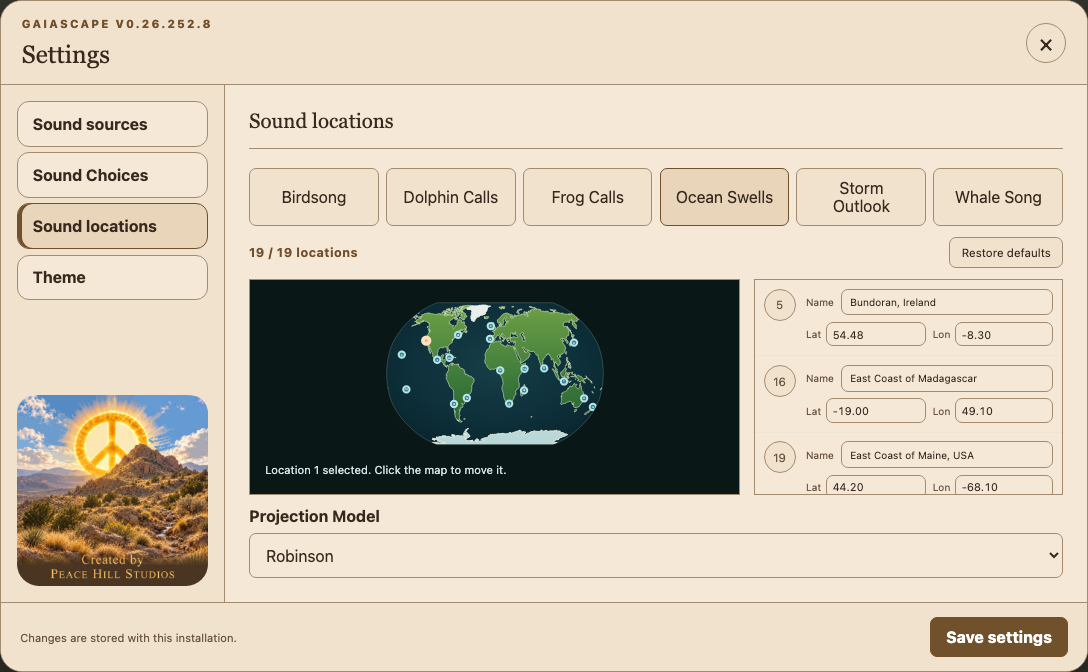
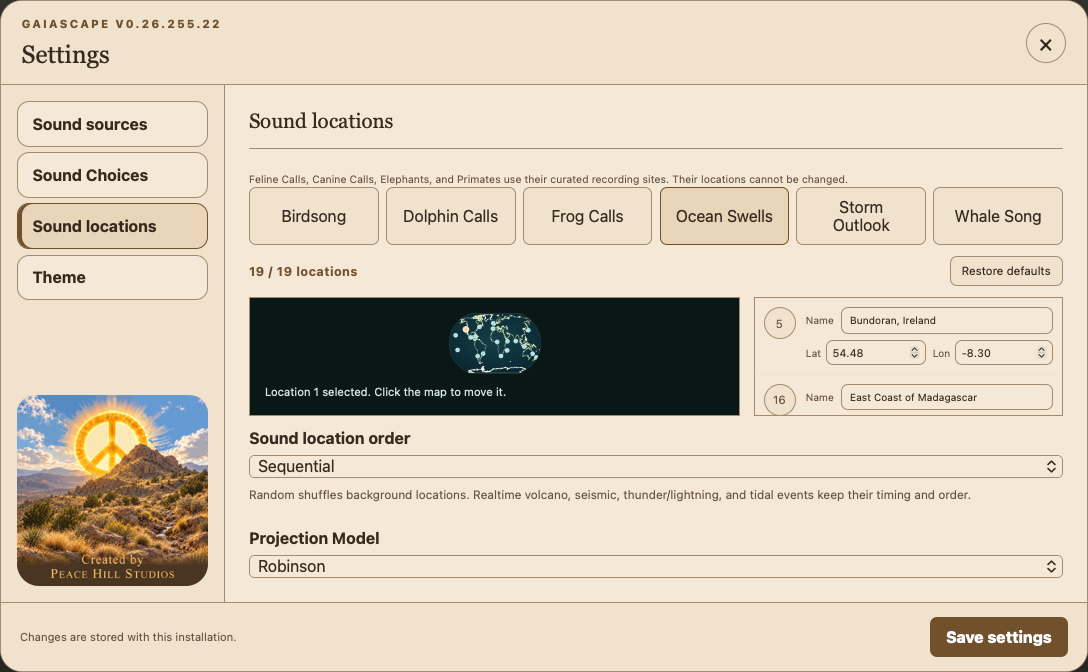
Refresh user guide screenshots and document the Gaiascapes Game

diff --git a/src/gaiascapes_host/static/app.css b/src/gaiascapes_host/static/app.css
@@ -531,7 +531,7 @@ main.has-animal > [data-app-view] { grid-column: 2; grid-row: 2; min-width: 0; }
   .animal-wikipedia[data-hemisphere="east"] { grid-column: 2; }
 }
 @media (max-width: 600px) {
-  main.has-animal, main.has-animal[data-animal-side="east"] { display: flex; height: auto; }
+  main.has-animal, main.has-animal[data-animal-side="east"] { display: flex; flex-direction: column; height: auto; }
   .animal-wikipedia { width: min(180px, 46%); align-self: flex-start; margin-top: 18px; }
   .animal-wikipedia[data-hemisphere="east"] { align-self: flex-end; }
   #animalImage { max-height: 140px; }

diff --git a/src/gaiascapes/__init__.py b/src/gaiascapes/__init__.py
@@ -4,7 +4,7 @@ The package exports normalized events and score-building primitives that can
 be reused without the host service, capture providers, or audio renderer.
 """
 
-__version__ = "v0.26.255.21"
+__version__ = "v0.26.255.22"
 
 from .events import GaiaEvent
 from .score import ScoreCue, build_score

diff --git a/USER_GUIDE.md b/USER_GUIDE.md
@@ -1,8 +1,8 @@
 # Gaiascapes user guide
 
-This guide explains the controls in Gaiascapes **v0.26.252.9**. The screenshots show v0.26.252.8; the interface is unchanged by the iPhone audio-session fix in v0.26.252.9. Installation and system setup are covered separately in the [README](README.md).
+This guide explains the controls in Gaiascapes **v0.26.255.22**. Installation and system setup are covered separately in the [README](README.md).
 
-The screenshots below were captured from this release on September 9, 2026, in an isolated demonstration session. Desktop screenshots use a 1,440-pixel-wide browser; mobile screenshots use a 390-pixel-wide browser simulation, not a physical iPhone. Settings screenshots focus on the dialog. Some lists scroll within the dialog, so only their visible rows are shown. Example earthquakes are illustrative, not live observations. Credential fields are blank, and enabled switches in a screenshot demonstrate the controls rather than confirm access to a provider.
+The screenshots below were captured from this release on September 12, 2026, in an isolated demonstration session. Desktop screenshots use a 1,440-pixel-wide browser (1,920 pixels for the bird map views); mobile screenshots use a 390-pixel-wide browser simulation, not a physical iPhone. Settings screenshots focus on the dialog. Some lists scroll within the dialog, so only their visible rows are shown. Example earthquakes and the selected bird recording location are illustrative, not live observations. The bird views show a paused, image-only selection using Next. Credential fields are blank, and enabled switches in a screenshot demonstrate the controls rather than confirm access to a provider.
 
 ## Contents
 
@@ -15,6 +15,7 @@ The screenshots below were captured from this release on September 9, 2026, in a
 - [Sound locations](#sound-locations)
 - [Theme](#theme)
 - [Saving settings](#saving-settings)
+- [Gaiascapes Game](#gaiascapes-game)
 - [Status and troubleshooting](#status-and-troubleshooting)
 - [Location privacy](#location-privacy)
 
@@ -90,7 +91,7 @@ A dash or **Not yet** means there is no matching event to display yet. A previou
 
 Select **Map** at the top of the window. Select **Dashboard** to return to the playback controls.
 
-![Map view showing the world map, legend, and three separate status tiles](docs/images/user-guide/03-map.png)
+![Map view with a greater roadrunner image, recording-location pointer, Play/Pause/Next controls, and status tiles](docs/images/user-guide/03-map.png)
 
 The legend distinguishes background locations, event locations, and **My location**. Moving the pointer over the map displays coordinates. The system-location marker, when available, shows the host’s approximate location derived from its public IP address. Background locations come from **Sound locations**; the host location can seed location 1 for Xeno-canto Birdsong and Storm Outlook at startup (see [Location privacy](#location-privacy)). The chosen Dashboard/Map view is remembered.
 
@@ -104,7 +105,7 @@ On narrow screens, the gear and Dashboard/Map selector appear in a centered row 
 
 In Settings, the section buttons move above the content. The listening button is in the Sound Choices heading. Units, Announce Recorded Sounds, Background, and the event tiles stack below it. Scroll inside the settings content to reach the lower controls. The **×** remains in the dialog header and **Save settings** in its footer.
 
-![Mobile Sound Choices with Listen on this device above Units](docs/images/user-guide/17-mobile-listening.png)
+![Mobile Sound Choices with the listening button in its heading and Units below](docs/images/user-guide/17-mobile-listening.png)
 
 To add Gaiascapes to an iPhone Home Screen:
 
@@ -141,6 +142,8 @@ Zoo and other recording context appears in the status information. Broader
 animal labels are used where species identification is unresolved. See the
 [recording credits and curation notes](src/gaiascapes_host/recordings/MAMMAL_CREDITS.md).
 **Announce Recording** is the last background source tile.
+
+![Mammal source tiles followed by Announce Recording and its synthesizer selector](docs/images/user-guide/18-mammal-announcement-sources.png)
 
 ### Background sources
 
@@ -199,7 +202,7 @@ Blank credential fields preserve their saved values. The **Saved — enter only 
 
 Open **Settings → Sound Choices**. The listening button is on the right of the heading. The first row contains **Units**, **Announce Recorded Sounds**, and **Background**. Below it are three independent event tiles: **Event 1**, **Event 2**, and **Event 3**. The location-privacy checkbox is beneath the sound tiles. These controls stack on narrow screens.
 
-![Sound Choices showing Listen on this device, Units, Whale Song, three event voices, volume sliders, the Thunder sample-rate control, and location privacy](docs/images/user-guide/06-sound-choices.png)
+![Sound Choices showing listening controls, Units, announcement dialect and voice variant, Birdsong, and three event voices](docs/images/user-guide/06-sound-choices.png)
 
 ### Selecting a sound
 
@@ -222,7 +225,7 @@ and choose its **Synthesizer**. Automatic prefers Say on supported Macs; Say als
 falls back to eSpeak NG when the chosen native voice is unavailable. Select
 eSpeak NG to always use that engine. In **Sound Choices → Announce Recorded Sounds**,
 choose a **Dialect** and **Voice variant** (Default, Male, or Female), set the volume
-at the bottom, and save settings. Each newly played bird, frog, whale, or dolphin
+at the bottom, and save settings. Each newly played animal
 recording announces its species and named location before the animal audio starts.
 The previous animal sound stops before speech, so speech and animal audio do not
 overlap. Disabled announcements retain the usual recording transitions. If speech
@@ -235,6 +238,12 @@ No speech service or network API is required. SuperCollider is needed only for S
 stopping playback, or moving to another recording cancels its current announcement.
 The tile reports a missing engine, missing voice, or synthesis failure while
 recorded sound playback remains available.
+
+On macOS, Say starts a short-lived SuperCollider language (`sclang`) worker for
+each uncached announcement. A second SuperCollider Dock icon may appear briefly
+while it generates speech; it is not loading the animal recording. Choosing
+**eSpeak NG** in **Sound sources → Announce Recording → Synthesizer** avoids that
+extra process. Repeated announcements may use the in-memory speech cache.
 
 ### Background choices
 
@@ -302,7 +311,7 @@ Commons uses **68 recordings across 19 curated locations**, with multiple record
 
 ### Whale Song and Dolphin Calls
 
-![Whale Song’s recording-site selection (earlier catalog shown)](docs/images/user-guide/09-whale-locations.png)
+![Whale Song’s current recording-site selection](docs/images/user-guide/09-whale-locations.png)
 
 These tabs list verified archive sites, not movable search centers. Use **Include in playback** to include or exclude a site from the rotation. Keep at least one site selected. The count shows how many sites are included. The numbered button or map marker identifies the site; the checkbox controls whether it plays. Names and coordinates are read-only.
 
@@ -346,6 +355,92 @@ Use the **×** in the dialog header to close Settings; there is no Close button 
 
 Mode and Dashboard/Map view changes are applied and saved immediately through their own controls. Theme is saved immediately in this browser. Listen/Mute applies only to the current page session. History-window and performance-length values control the current replay request and are not saved by the Settings dialog.
 
+## Gaiascapes Game
+
+Turn an animal background into an identification quiz: show the picture first,
+offer the recording as a second clue, then reveal the answer. One person hosts
+the game and controls when clues and answers appear.
+
+### Set up the quiz
+
+Complete setup before showing the screen to the players.
+
+1. In **Settings → Sound sources**, enable the animal recording source you want
+   to use. Clear **Enabled** under **Announce Recording** so spoken names will
+   not give away the answer.
+2. In **Sound Choices**, select that animal source as **Background**. Set
+   **Event 1**, **Event 2**, and **Event 3** to **None** to avoid unrelated sounds
+   during the quiz. Set a comfortable Background volume and save settings.
+   If needed, select **Listen on this device** for the browser presenting the quiz.
+3. In **Sound locations**, set **Sound location order** to **Random**, then save.
+   Random changes the order of sites within the selected background collection;
+   it does not mix different background sound choices. Mammal sources keep their
+   fixed recording sites.
+4. On the Dashboard, select **Continuous** mode, then **Pause**. Switch to
+   **Map** if you want the recording location to be a visual clue.
+5. Set the background status tile’s **Reveal / Hide** selector to **Hide**.
+6. Press **Next** to prepare the first animal without playing its sound. Once
+   the picture card appears, set its selector to **Hide** too. The picture and
+   location pointer stay visible, but its caption and credits are concealed.
+
+The screen is now ready for the players. Keep the picture card’s Wikipedia
+article closed until you are ready to reveal the answer.
+
+### Play a round
+
+1. **Guess from the picture.** Next displays the animal picture and pauses.
+   Give everyone a chance to identify it without hearing the recording.
+2. **Offer the sound if needed.** If nobody knows, press **Play** to hear the
+   same animal. Announcements are disabled, so players hear the animal rather
+   than its name. Press **Pause** after a useful clue; Play resumes continuous
+   playback, which can otherwise advance to another recording automatically.
+3. **Reveal the answer.** When someone identifies the animal correctly—or no
+   one can identify it—select **Reveal** on the picture card and background
+   status tile. Read the displayed animal name and recording location together.
+   Some recordings identify only a broad animal group; use the displayed name
+   as the answer rather than requiring an unsupported exact species.
+4. **Prepare the next round.** Return both selectors to **Hide**, then press
+   **Next**. The next animal appears silently, with its information still hidden.
+   Repeat the picture, sound, and reveal sequence.
+
+Reveal/Hide choices remain in effect as animals change, but reloading the page
+resets them to Reveal. If you reload, hide both sets of information again before
+continuing. To change the animal category, choose another enabled Background
+in Sound Choices, save, and prepare the next round with Next.
+
+### Game controls
+
+Use the Play, Pause, and Next icons beneath Dashboard/Map to start or pause the selected
+Gaiascapes session from either view. It follows the existing mode: Continuous
+starts/stops the live soundscape; Capture starts a history replay and Pause stops
+it (Play starts a new replay). Device listening remains a separate setting.
+
+Each status tile has a **Reveal / Hide** selector beside its title. Reveal is the
+default. Hide conceals its information, links, and detail tooltip while keeping
+the title and equal-sized tile visible. Choices stay synchronized between Map
+and Dashboard for the current page; reloading returns to Reveal. New status
+updates remain hidden until the player selects Reveal.
+
+### Sound location order
+
+In **Sound locations**, choose **Sequential** (the default) or **Random** above
+Projection Model, then save settings. Random visits each background location once
+per shuffled round, then reshuffles; recordings continue to the next clip at each
+site on subsequent rounds. It applies to birds, frogs, whales, dolphins, the mammal collections, ocean
+swell, and storm outlook. Actual recording coordinates remain unchanged.
+Realtime volcano, seismic, thunder/lightning, and tidal events are not randomized.
+Changes take effect on the next background visit without interrupting a recording.
+
+The animal image tile has its own top-center **Reveal / Hide** selector, initially
+Reveal. Hide conceals the caption and credits while keeping the image and its
+map pointer visible; it stays selected
+as animals change. **Next** stages the next animal in the configured Sequential
+or Random order and pauses without playing its announcement or recording. Once
+the image is ready, Pause is highlighted. **Play** plays that staged animal.
+Next requires Continuous mode and an enabled animal recording background.
+
+![Game map with the bird image and pointer visible while its caption, credits, and background status information are hidden](docs/images/user-guide/19-map-hidden-information.png)
+
 ## Status and troubleshooting
 
 | What you see or hear | What it means and what to check |
@@ -373,33 +468,12 @@ marker without changing environmental events, audio, or LAN access. The marker r
 applies to the installation; other open browsers may need a refresh to remove
 a previously displayed marker. See [Privacy](PRIVACY.md) for details.
 
-### Game controls
+## Screenshot image credit
 
-Use the Play, Pause, and Next icons beneath Dashboard/Map to start or pause the selected
-Gaiascapes session from either view. It follows the existing mode: Continuous
-starts/stops the live soundscape; Capture starts a history replay and Pause stops
-it (Play starts a new replay). Device listening remains a separate setting.
-
-Each status tile has a **Reveal / Hide** selector beside its title. Reveal is the
-default. Hide conceals its information, links, and detail tooltip while keeping
-the title and equal-sized tile visible. Choices stay synchronized between Map
-and Dashboard for the current page; reloading returns to Reveal. New status
-updates remain hidden until the player selects Reveal.
-
-### Sound location order
-
-In **Sound locations**, choose **Sequential** (the default) or **Random** above
-Projection Model, then save settings. Random visits each background location once
-per shuffled round, then reshuffles; recordings continue to the next clip at each
-site on subsequent rounds. It applies to birds, frogs, whales, dolphins, ocean
-swell, and storm outlook. Actual recording coordinates remain unchanged.
-Realtime volcano, seismic, thunder/lightning, and tidal events are not randomized.
-Changes take effect on the next background visit without interrupting a recording.
-
-The animal image tile has its own top-center **Reveal / Hide** selector, initially
-Reveal. Hide conceals the caption and credits while keeping the image and its
-map pointer visible; it stays selected
-as animals change. **Next** stages the next animal in the configured Sequential
-or Random order and pauses without playing its announcement or recording. Once
-the image is ready, Pause is highlighted. **Play** plays that staged animal.
-Next requires Continuous mode and an enabled animal recording background.
+The bird image visible in the map screenshots is
+[Greater Roadrunner Tingley Beach](https://commons.wikimedia.org/wiki/File:Greater_Roadrunner_Tingley_Beach.jpg)
+by Polinova (Daniel Polin), licensed under
+[CC BY-SA 4.0](https://creativecommons.org/licenses/by-sa/4.0/).
+It is shown scaled within the application without other photographic edits.
+The photograph retains its license; the demonstration map location does not
+identify the location of a verified sound recording.
